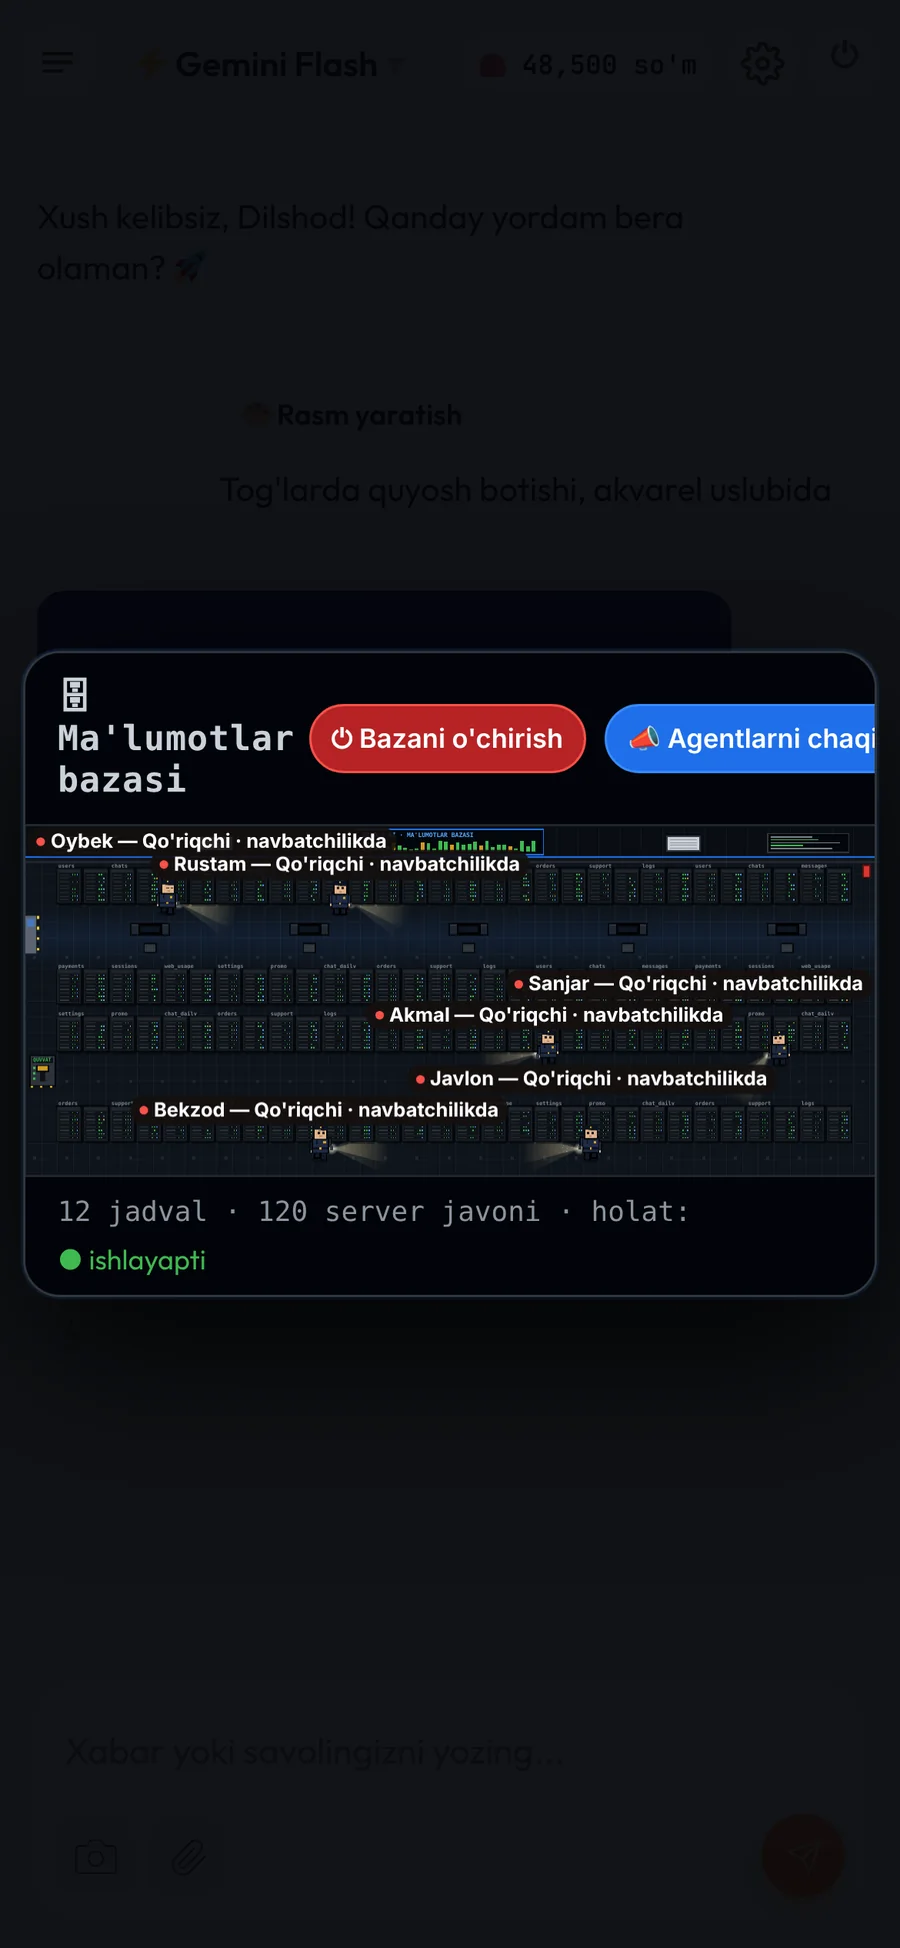
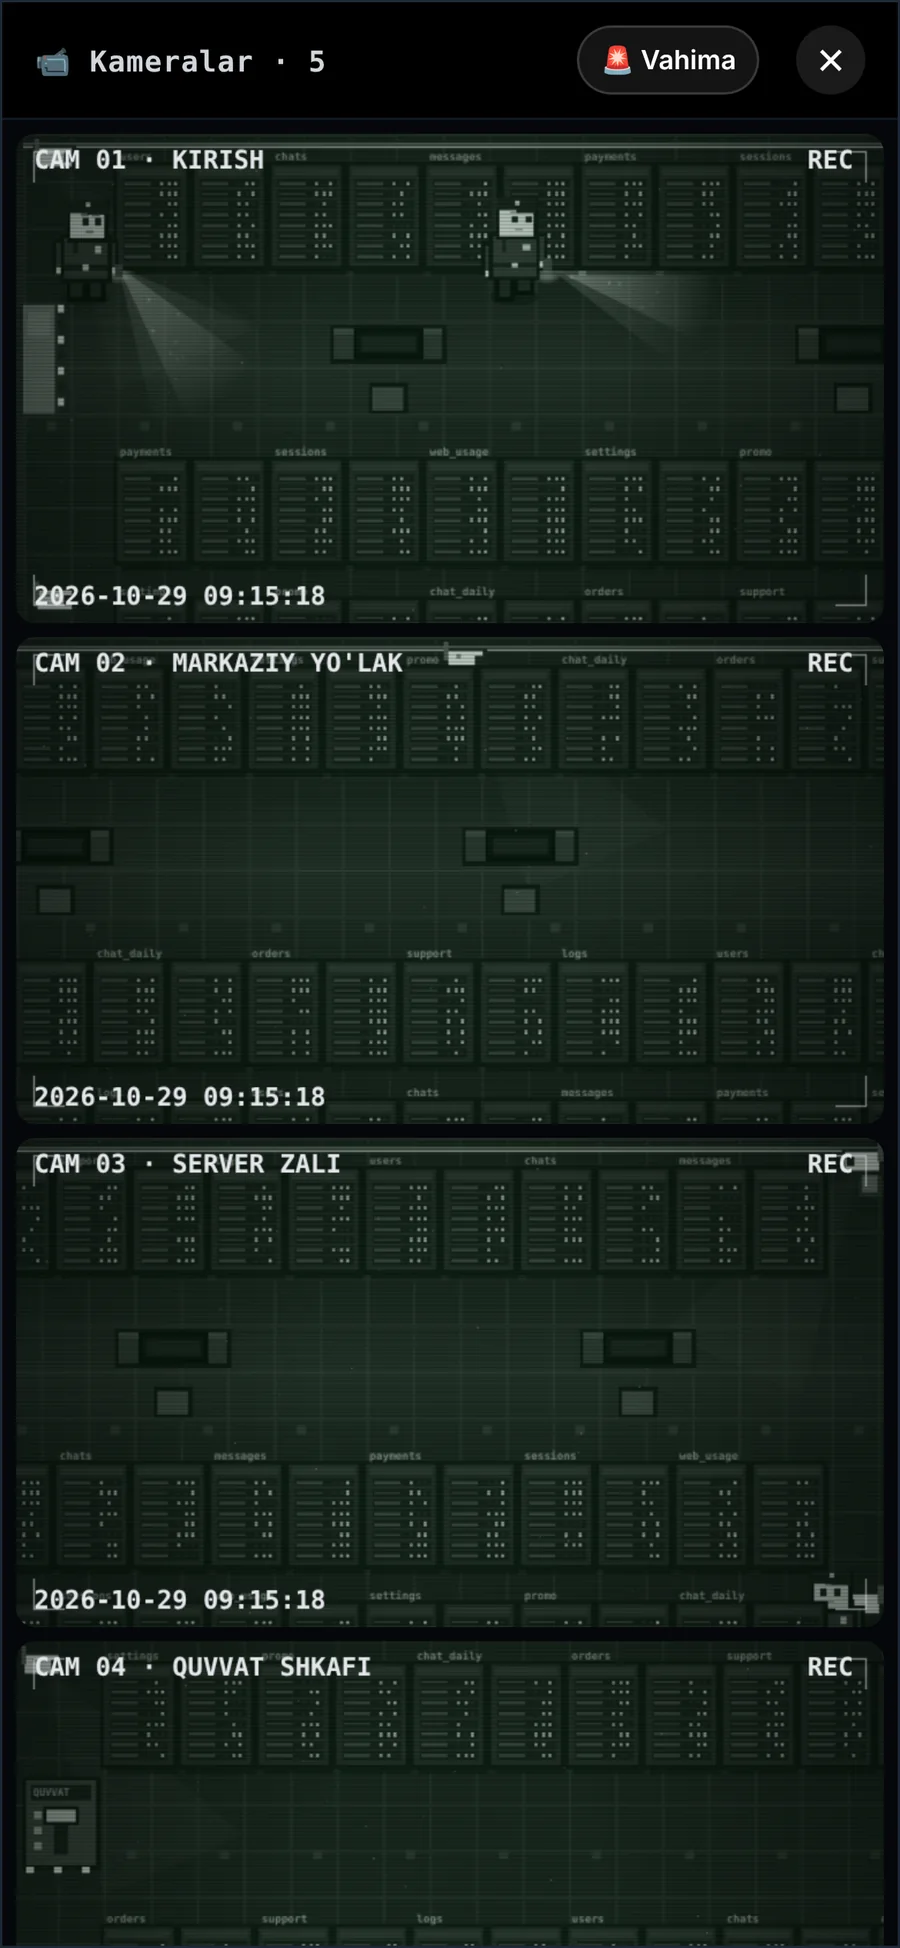
Showcase: on phones feature tags sit in one row under the text (never cut off); DB chapter shows the phone camera screen; cameras view is full-screen single column on phones
Claude-Session: https://claude.ai/code/session_01AREgMsF6JppApnAt3i9Muh

diff --git a/index.html b/index.html
@@ -2912,6 +2912,9 @@ body.theme-light .uid-chip { color: #0f172a; border-color: rgba(15,23,42,0.15); 
       background: rgba(255, 255, 255, .07); border: 1px solid rgba(255, 255, 255, .16); -webkit-backdrop-filter: blur(10px); backdrop-filter: blur(10px); box-shadow: 0 20px 40px -20px rgba(0,0,0,.6);
       animation: swFloat var(--ft, 7s) ease-in-out infinite alternate; }
   .pd-sw-chip span::before { content: ""; width: 7px; height: 7px; border-radius: 50%; background: #ff8a4c; box-shadow: 0 0 10px #ff8a4c; }
+  .pd-sw-tags.mob { left: 12px; right: 12px; top: var(--band, 40%); bottom: auto; height: 46px; display: flex; justify-content: center; align-items: center; gap: 8px; overflow: visible; z-index: 1; }
+  .pd-sw-tags.mob .pd-sw-chip { position: relative; left: auto; top: auto; }
+  .pd-sw-tags.mob .pd-sw-chip span { padding: 8px 14px; }
   @keyframes swFloat { from { transform: translate3d(0, -8px, 0) rotate(-1.5deg); } to { transform: translate3d(14px, 10px, 0) rotate(1.5deg); } }
   @media (prefers-reduced-motion: reduce) { .pd-sw-chip span { animation: none; } .pd-sw-chip { transition: opacity .3s; transform: none !important; } }
   .pd-sw-glow { position: absolute; inset: 0; z-index: -4; background: radial-gradient(55% 60% at 70% 50%, rgba(255, 110, 40, .32), transparent 70%), radial-gradient(40% 40% at 20% 90%, rgba(120, 80, 255, .14), transparent 70%); transition: background 1s; }
@@ -3075,13 +3078,15 @@ body.theme-light .uid-chip { color: #0f172a; border-color: rgba(15,23,42,0.15); 
           var old = TAGS.querySelectorAll('.pd-sw-chip:not(.out)');
           old.forEach(function (e) { e.classList.remove('in'); e.classList.add('out'); setTimeout(function () { e.remove(); }, 800); });
           var mob = innerWidth <= 760, pos = mob ? POS_M : POS_D, shift = i % 2;
+          TAGS.classList.toggle('mob', mob);
+          if (mob) { old.forEach(function (e) { e.style.position = 'absolute'; e.style.left = e.offsetLeft + 'px'; }); list = list.slice(0, 3); }   // telefonda: matn ostida bitta qator, kesilmaydi
           list.forEach(function (t, k) {
               var q = pos[ORD[(k + shift * 3) % 6]], el = document.createElement('div'), sp = document.createElement('span'), left = q[0] < 50;
               el.className = 'pd-sw-chip'; sp.textContent = t; el.appendChild(sp);
               el.style.setProperty('--x', q[0] + '%'); el.style.setProperty('--y', q[1] + '%');
               el.style.setProperty('--dx', (left ? -1 : 1) * (mob ? 46 : 34) + 'vw'); el.style.setProperty('--dy', (k % 2 ? 24 : -24) + 'px');
               el.style.setProperty('--d', (.15 + k * .12) + 's'); el.style.setProperty('--ft', (6 + (k * 1.7) % 4) + 's');
-              if (k === 3) { el.style.setProperty('--b', '1.5px'); el.style.setProperty('--o', '.55'); }   // chuqurlik: bittasi xiraroq
+              if (k === 3 && !mob) { el.style.setProperty('--b', '1.5px'); el.style.setProperty('--o', '.55'); }   // chuqurlik: bittasi xiraroq
               el.style.setProperty('--fs', mob ? (k % 2 ? '13px' : '14.5px') : (k % 2 ? '16px' : '19px'));
               TAGS.appendChild(el);
               requestAnimationFrame(function () { requestAnimationFrame(function () { el.classList.add('in'); }); });
@@ -3091,7 +3096,8 @@ body.theme-light .uid-chip { color: #0f172a; border-color: rgba(15,23,42,0.15); 
       function fitPhone() {
           if (innerWidth > 760) { phone.style.width = ''; phone.style.marginLeft = ''; return; }
           var st = sec.querySelector('.pd-sw-stick').getBoundingClientRect(), tx = $('.pd-sw-txt').getBoundingClientRect();
-          var avail = st.bottom - tx.bottom - 46 - 22, h = Math.max(220, Math.min(avail, 470)), w = Math.round(h * 9 / 19.5);
+          TAGS.style.setProperty('--band', (tx.bottom - st.top + 6) + 'px');
+          var avail = st.bottom - tx.bottom - 46 - 22 - 52, h = Math.max(200, Math.min(avail, 460)), w = Math.round(h * 9 / 19.5);
           phone.style.width = w + 'px'; phone.style.marginLeft = (-w / 2) + 'px';
       }
       window.addEventListener('resize', function () { setTimeout(fitPhone, 50); });
@@ -9846,7 +9852,7 @@ body.theme-light .qm-chips button { color: #334155; border-color: rgba(15, 23, 4
 .ag-feed canvas { display: block; width: 100%; aspect-ratio: 16 / 9; height: auto; }
 .ag-feed.big { grid-column: 1 / -1; grid-row: 1; cursor: zoom-out; }
 .ag-feed.dim { opacity: .55; }
-@media (max-width: 700px) { .ag-camgrid { grid-template-columns: 1fr 1fr; gap: 6px; padding: 6px; } .ag-feed, .ag-feed:nth-child(4), .ag-feed:nth-child(5) { grid-column: span 1; } .ag-feed:nth-child(5) { grid-column: 1 / -1; } .ag-feed.big { grid-column: 1 / -1; } }
+@media (max-width: 700px) { .ag-camp { padding: 0; } .ag-camcard { max-height: 100vh; height: 100%; border-radius: 0; } .ag-camgrid { grid-template-columns: 1fr; gap: 6px; padding: 6px; } .ag-feed, .ag-feed:nth-child(4), .ag-feed:nth-child(5), .ag-feed.big { grid-column: 1 / -1; } .ag-feed.big { grid-row: auto; } }
 .ag-dbcard .ag-head { flex-wrap: wrap; row-gap: 6px; } .ag-dbcard .ag-head span { flex-wrap: wrap; justify-content: flex-end; row-gap: 6px; }
 @media (max-width: 600px) { .ag-btn { padding: 0 9px; font-size: 11.5px; } .ag-head small { display: none; } }
 .ag-card .ag-head { flex-wrap: wrap; row-gap: 6px; }
